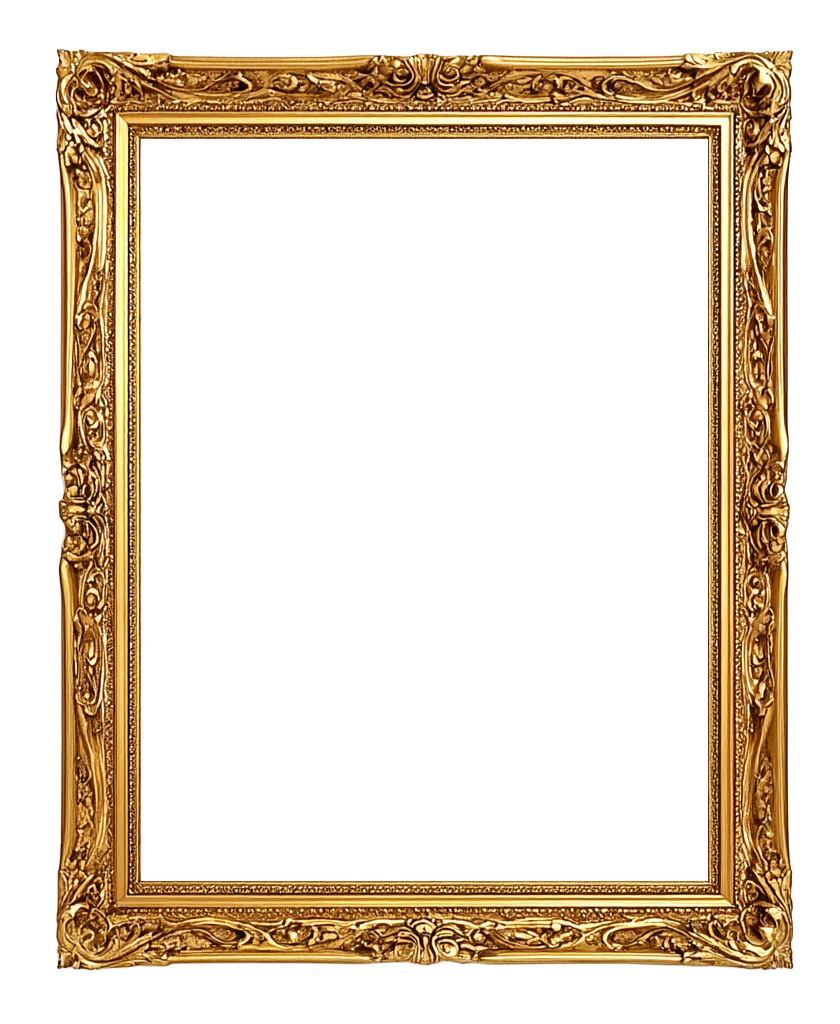
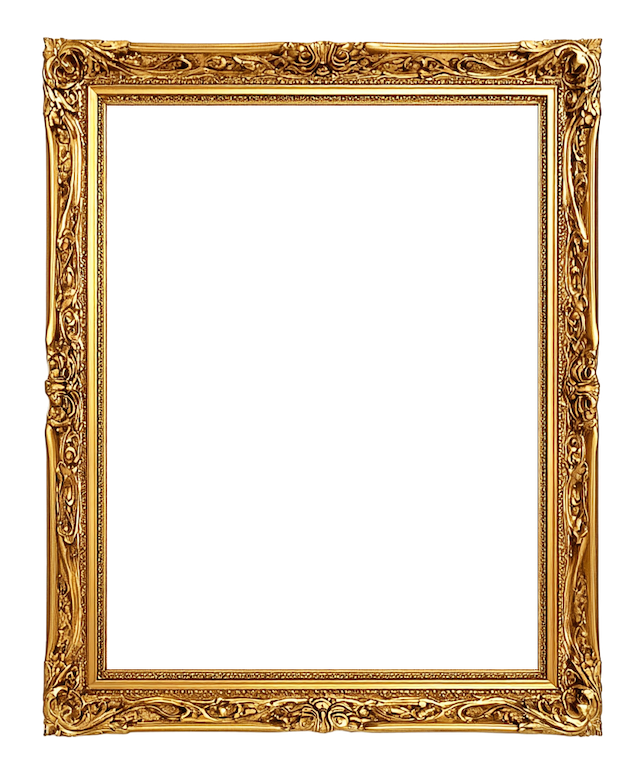
fix

Changed region(s): [[0.0893, 0.0617, 0.953, 0.9563], [0.0596, 0.0617, 0.2382, 0.7404], [0.2382, 0.0617, 0.268, 0.0925]]

diff --git a/src/components/HungarianDance.tsx b/src/components/HungarianDance.tsx
@@ -16,7 +16,8 @@ export function HungarianDance() {
   const timerRef = useRef<BpmTimerHandle>(null);
   const containerRef = useRef<HTMLDivElement | null>(null);
   const appRef = useRef<PIXI.Application | null>(null);
-  const spritesRef = useRef<PIXI.AnimatedSprite[]>([]);
+  const animatedSpritesRef = useRef<PIXI.AnimatedSprite[]>([]);
+  const firstLoopRef = useRef(true);
 
   const [initialized, setInitialized] = useState(false);
   const [bpm, setBpm] = useState(90);
@@ -38,12 +39,14 @@ export function HungarianDance() {
       app.stage.addChild(container);
 
       await PIXI.Assets.load(brahmsSpinFrames);
+      await PIXI.Assets.load("/brahms_frame/brahms_frame.png");
       await PIXI.Assets.load(manConductorFrames);
       await PIXI.Assets.load(runningManFrames);
       await PIXI.Assets.load(hungarianManFrames);
       await PIXI.Assets.load(hungarianGirlFrames);
 
       const brahmsSpinTextures = brahmsSpinFrames.map((f) => PIXI.Assets.cache.get(f));
+      const brahmsFrameTexture = PIXI.Assets.cache.get("/brahms_frame/brahms_frame.png");
       const manConductorTextures = manConductorFrames.map((f) => PIXI.Assets.cache.get(f));
       const runningManTextures = runningManFrames.map((f) => PIXI.Assets.cache.get(f));
       const hungarianManTextures = hungarianManFrames.map((f) => PIXI.Assets.cache.get(f));
@@ -55,6 +58,10 @@ export function HungarianDance() {
       brahmsSpin.animationSpeed = 0.5;
       brahmsSpin.loop = true;
       brahmsSpin.play();
+
+      const brahmsFrame = new PIXI.Sprite(brahmsFrameTexture);
+      brahmsFrame.setSize(638, 778);
+      brahmsFrame.position.set(5, 44);
 
       const manConductor = new PIXI.AnimatedSprite(manConductorTextures);
       manConductor.setSize(1564, 856);
@@ -150,6 +157,7 @@ export function HungarianDance() {
       hungarianGirl8.play();
 
       container.addChild(brahmsSpin);
+      container.addChild(brahmsFrame);
       container.addChild(manConductor);
       container.addChild(runningMan);
       container.addChild(hungarianMan);
@@ -163,7 +171,7 @@ export function HungarianDance() {
       container.addChild(hungarianGirl8);
 
       appRef.current = app;
-      spritesRef.current = [
+      animatedSpritesRef.current = [
         brahmsSpin,
         manConductor,
         runningMan,
@@ -183,7 +191,7 @@ export function HungarianDance() {
   }, []);
 
   useEffect(() => {
-    spritesRef.current.forEach((sprite) => {
+    animatedSpritesRef.current.forEach((sprite) => {
       sprite.animationSpeed = calculateAnimationSpeed(bpm);
     });
   }, [bpm]);
@@ -195,8 +203,11 @@ export function HungarianDance() {
           src="/hungarian_dance.m4a"
           playbackRate={audioRate}
           onTimeUpdate={(currentTime) => {
-            if (currentTime === 0) {
+            if (currentTime < 1 && !firstLoopRef.current) {
               timerRef.current?.reset();
+            }
+            if (currentTime >= 1) {
+              firstLoopRef.current = false;
             }
           }}
           onPlay={() => {
@@ -227,10 +238,6 @@ export function HungarianDance() {
             “Hungarian Dance No. 5” by Fulda Symphony Orchestra is licensed under CC BY.
           </div>
 
-          <img
-            src="/brahms_frame/brahms_frame.png"
-            className="absolute top-[44px] left-[5px] w-[638px]"
-          />
           <img
             src="/runningtrack_circle/runningtrack_circle.png"
             className="absolute -bottom-[54px] right-[181px] w-[584px]"
